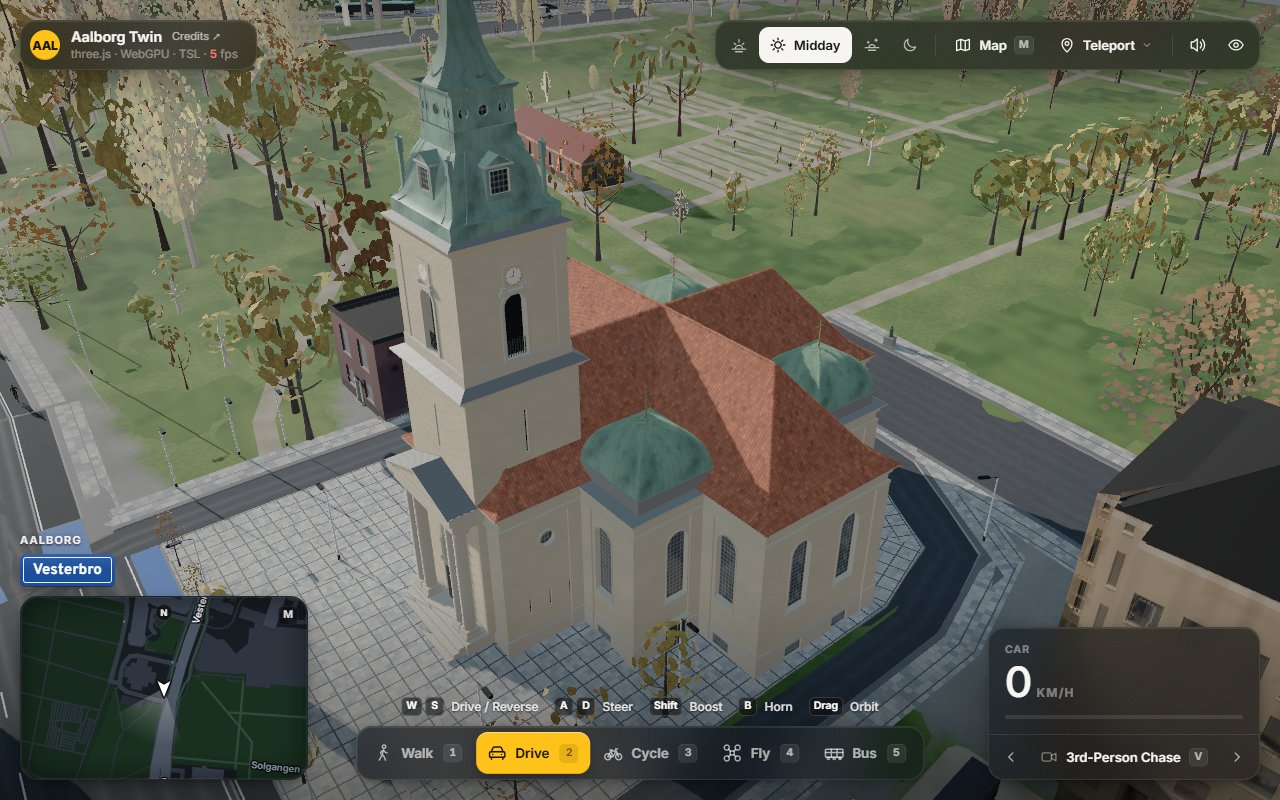
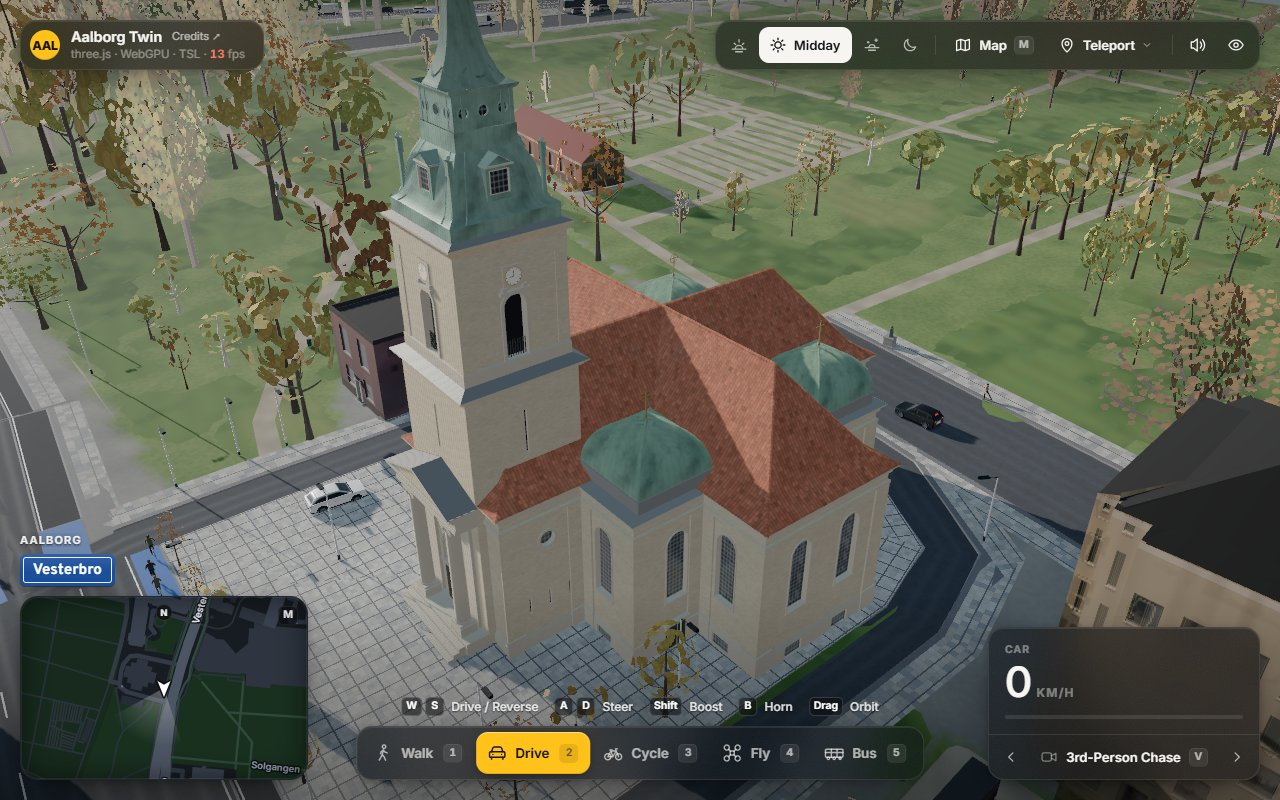
Ansgars Kirke: two Ionic columns at the entrance, brick facade
The entrance has two columns on pedestals, with the capital of sheet 33: a waisted
bolster ending in scrolls, and a pilaster behind each column. The facade texture
is pale yellow brick (mursten) in running bond instead of plain render.

diff --git a/tools/overrides/ansgars_kirke.py b/tools/overrides/ansgars_kirke.py
@@ -64,6 +64,7 @@ PORTICO_U = 20.15
 WIN_W, WIN_SILL, WIN_TOP = 1.75, 4.06, 9.6
 BASE_W = 1.57
 DOME_U, DOME_V, DOME_HALF, DOME_BASE, DOME_TOP = 7.85, 8.0, 2.92, 13.1, 16.4
+COLUMN_U, COLUMNS_V = 19.16, (-2.5, 2.5)  # the entrance's two columns (sheets 33 and 38)
 
 # The outline of the walls, clockwise seen from above, from the north arm's north-west corner.
 WALL_RING = [(-ARM_HALF, NORTH), (ARM_HALF, NORTH), (ARM_HALF, -BAY_V), (BAY_E, -BAY_V), (BAY_E, -ARM_HALF), (EAST, -ARM_HALF), (EAST, ARM_HALF), (BAY_E, ARM_HALF),
@@ -81,7 +82,7 @@ BASEMENT_SOUTH = {10: (2.37, -2.37), 8: (7.72,), 12: (-7.85,), 14: (-13.3,), 7: 
 UP = np.array([0.0, 1.0, 0.0])
 
 # material -> size in metres of one repeat of its texture (None: vertex colours)
-TILE_M = {'tile': (9.6, 9.6), 'wall': (8.0, 8.0), 'stone': (2.0, 2.0), 'copper': (4.0, 4.0), 'dome': (4.0, 4.0), 'glass': (1.74, 1.98), 'painted': None}
+TILE_M = {'tile': (9.6, 9.6), 'wall': (5.28, 5.28), 'stone': (2.0, 2.0), 'copper': (4.0, 4.0), 'dome': (4.0, 4.0), 'glass': (1.74, 1.98), 'painted': None}
 
 
 def rgb(*srgb):
@@ -297,11 +298,13 @@ class Model:
                     nors.append(v / max(np.linalg.norm(v), 1e-9))
                 self.poly(mat, pts, nh + UP * (p[j, 0] - p[j + 1, 0]), uvs=uvs, nors=nors, color=color)
 
-    def cylinder(self, mat, cu, cv, r, h0, h1, n=12, color=None):
+    def cylinder(self, mat, cu, cv, r, h0, h1, n=12, color=None, r1=None):
+        """Upright, round, r at its foot and r1 (default r) at its head."""
+        top = r if r1 is None else r1
         for i in range(n):
             a0, a1 = i / n * 2 * math.pi, (i + 1) / n * 2 * math.pi
             n0, n1 = np.array([math.cos(a0), 0, math.sin(a0)]), np.array([math.cos(a1), 0, math.sin(a1)])
-            q = lambda a, h: (cu + r * math.cos(a), h, cv + r * math.sin(a))
+            q = lambda a, h: (cu + (r if h == h0 else top) * math.cos(a), h, cv + (r if h == h0 else top) * math.sin(a))
             self.poly(mat, [q(a0, h0), q(a1, h0), q(a1, h1), q(a0, h1)], n0 + n1, nors=[n0, n1, n1, n0],
                       uvs=[(a0 * r, h0), (a1 * r, h0), (a1 * r, h1), (a0 * r, h1)], color=color)
 
@@ -644,7 +647,7 @@ def add_domes(m):
 
 
 def add_portico(m, hb):
-    """The entrance front (sheet 38): stairs and landing, two pairs of banded columns, entablature and pediment against the tower."""
+    """The entrance front (sheets 33 and 38): stairs and landing, two Ionic columns on pedestals, entablature and pediment against the tower."""
     hw = TOWER_HALF
     u0, u1 = TOWER_U + TOWER_HALF, PORTICO_U
     m.box('stone', (u0, hb, -hw), (19.85, PLINTH, hw), skip=('b',))  # landing
@@ -652,17 +655,18 @@ def add_portico(m, hb):
         a = 19.85 + k * 0.45
         top = PLINTH - (k + 1) * 0.29
         m.box('stone', (a, hb, -3.75), (a + 0.45, top, 3.75), skip=('b', 'w'))
-    for v in (-3.25, -2.2, 2.2, 3.25):
-        cu = 19.1
-        m.box('stone', (cu - 0.58, PLINTH, v - 0.5), (cu + 0.58, 1.75, v + 0.5))
-        m.box('stone', (cu - 0.5, 1.75, v - 0.47), (cu + 0.5, 2.15, v + 0.47))
-        m.cylinder('stone', cu, v, 0.42, 2.15, 10.05, n=12)
-        for y in np.arange(2.6, 10.0, 0.82):  # the bands of the shaft (sheet 33)
-            m.cylinder('stone', cu, v, 0.45, y, y + 0.1, n=12)
-        m.loft('stone', cu, v, [(0.42, 10.05), (0.47, 10.15), (0.56, 10.5), (0.56, 10.7)], smooth=False)
-    # entablature and cornice around the portico
-    m.box('stone', (u0, 10.7, -hw), (19.88, 11.5, hw), skip=('b',))
-    m.box('stone', (u0, 11.5, -hw - 0.27), (u1, 12.1, hw + 0.27), skip=('w',))
+    for v in COLUMNS_V:
+        cu = COLUMN_U
+        m.box('stone', (cu - 0.62, PLINTH, v - 0.72), (cu + 0.62, 2.15, v + 0.72))  # pedestal
+        m.box('stone', (cu - 0.57, 2.15, v - 0.6), (cu + 0.57, 2.3, v + 0.6))
+        m.cylinder('stone', cu, v, 0.57, 2.3, 2.42, n=20)  # base
+        m.cylinder('stone', cu, v, 0.51, 2.42, 9.93, n=20, r1=0.46)  # shaft, tapering (sheet 33)
+        ionic_capital(m, cu, v)
+    # entablature around the portico: architrave, frieze and cornice (sheet 33)
+    m.box('stone', (u0, 10.56, -hw), (19.73, 10.86, hw))
+    m.box('stone', (u0, 10.86, -hw), (19.65, 11.55, hw))
+    m.box('stone', (u0, 11.55, -hw - 0.1), (19.9, 11.82, hw + 0.1))
+    m.box('stone', (u0, 11.82, -hw - 0.27), (u1, 12.1, hw + 0.27), skip=('w',))
     # pediment with its raking cornices, tile laid over it
     apex = 13.7
     m.poly('wall', [(u1 - 0.1, 12.1, -hw), (u1 - 0.1, 12.1, hw), (u1 - 0.1, apex - 0.1, 0)], (1, 0, 0))
@@ -673,6 +677,9 @@ def add_portico(m, hb):
     # the tower's front behind the columns: main door with its cartouche, the arched window over it (sheet 38)
     w = WallFrame((u0, -hw), (u0, hw))
     c = hw
+    for v in COLUMNS_V:  # the pilaster behind each column, with its half capital
+        m.wbox('stone', w, c + v - 0.6, c + v + 0.6, PLINTH, 10.3, 0.0, 0.22, top=False)
+        m.wbox('stone', w, c + v - 0.72, c + v + 0.72, 10.3, 10.56, 0.0, 0.3)
     o = arch(7.6, 10.2, 1.58, 6)
     for (h0, a0), (h1, a1) in zip(o, o[1:]):
         m.poly('glass', [w.p(c - a0, h0, 0.02), w.p(c + a0, h0, 0.02), w.p(c + a1, h1, 0.02), w.p(c - a1, h1, 0.02)], w.n, uvs=[(-a0, h0), (a0, h0), (a1, h1), (-a1, h1)])
@@ -684,6 +691,40 @@ def add_portico(m, hb):
     for sgn in (-1, 1):
         m.wbox('stone', w, c + sgn * 0.98 - 0.14, c + sgn * 0.98 + 0.14, 4.92, 6.35, 0.0, 0.3)
         m.wbox('stone', w, c + sgn * 0.98 - 0.2, c + sgn * 0.98 + 0.2, 6.35, 6.6, 0.0, 0.34)
+
+
+def ionic_capital(m, cu, cv):
+    """A capital as sheet 33 draws it from the side: a bolster with a waist running front to back, ending in a scroll on the entrance side and behind."""
+    m.cylinder('stone', cu, cv, 0.47, 9.93, 10.12, n=20, r1=0.6)  # echinus
+    m.box('stone', (cu - 0.44, 10.08, cv - 0.5), (cu + 0.44, 10.46, cv + 0.5))  # the band between the scrolls
+    m.box('stone', (cu - 0.6, 10.46, cv - 0.72), (cu + 0.6, 10.56, cv + 0.72))  # abacus
+    groove = rgb(.40, .38, .33)
+    ch, end, half = 10.2, 0.26, 0.5
+    for sgn in (-1, 1):
+        cz = cv + sgn * 0.5
+        radius = lambda t: 0.13 + (end - 0.13) * abs(t) ** 1.6
+        ts = np.linspace(-1, 1, 9)
+        n = 14
+        for t0, t1 in zip(ts, ts[1:]):
+            for i in range(n):
+                a0, a1 = i / n * 2 * math.pi, (i + 1) / n * 2 * math.pi
+                d0, d1 = np.array([0, math.sin(a0), math.cos(a0)]), np.array([0, math.sin(a1), math.cos(a1)])
+                q = lambda t, a: (cu + t * half, ch + radius(t) * math.sin(a), cz + radius(t) * math.cos(a))
+                m.poly('stone', [q(t0, a0), q(t1, a0), q(t1, a1), q(t0, a1)], d0 + d1, nors=[d0, d0, d1, d1],
+                       uvs=[(t0 * half, a0 * end), (t1 * half, a0 * end), (t1 * half, a1 * end), (t0 * half, a1 * end)])
+        for side in (-1, 1):
+            face = cu + side * half
+            normal = (side, 0, 0)
+            disc = [(face, ch + end * math.sin(a), cz + end * math.cos(a)) for a in np.linspace(0, 2 * math.pi, 15)[:-1]]
+            m.poly('stone', disc, normal)
+            # the scroll: a spiral cut in the face, winding in from the rim to the eye
+            turns = np.linspace(0, 3 * 2 * math.pi, 37)
+            rr = end * 0.94 * (1 - turns / turns[-1]) + 0.05
+            for k in range(len(turns) - 1):
+                a, b = turns[k], turns[k + 1]
+                ra, rb = rr[k], rr[k + 1]
+                out = lambda r, q: (face + side * 0.006, ch + r * math.sin(q), cz + sgn * r * math.cos(q))
+                m.poly('painted', [out(ra, a), out(rb, b), out(rb - 0.016, b), out(ra - 0.016, a)], normal, color=groove)
 
 
 def build(hb=-2.0):
@@ -745,15 +786,28 @@ def tile_texture(n=1024, cols=40, rows=32, seed=1):
     return to_image(np.clip(img, 0, 1))
 
 
-def wall_texture(n=1024, size=8.0, seed=3):
-    """The cream render of the photographs (BBR says brick under it): washes and stains running with the height of the wall, a trace of the courses."""
+def wall_texture(n=1024, rows=78, cols=22, seed=3):
+    """Mursten: pale yellow brick in running bond, 24 cm by 6.8 cm to a repeat of 5.28 m. Each brick has its own tone and the bed joints shade most. The courses
+    are laid by hand, each a little off the half-brick, so that from afar the head joints do not line up in stripes."""
     rs = np.random.default_rng(seed)
-    y = np.mgrid[0:n, 0:n][0] + 0.5
-    rows = int(round(size / 0.0775))
-    jit = rs.normal(0, 1, rows)
-    lum = 1 + 0.008 * jit[np.floor(y / n * rows).astype(int)]
-    lum = lum * (1 + 0.075 * periodic_noise(n, 1.7, seed + 1, stretch=(1.0, 0.45), low=1) + 0.02 * periodic_noise(n, 0.8, seed + 2, low=16))
-    img = np.array(albedo(TONES['wall'])) * lum[..., None]
+    y, x = np.mgrid[0:n, 0:n] + 0.5
+    cy = y / n * rows
+    cj = np.floor(cy).astype(int)
+    shift = 0.5 * (np.arange(rows) % 2) + rs.uniform(-0.09, 0.09, rows)
+    cx = x / n * cols + shift[cj]
+    ci = np.floor(cx).astype(int) % cols
+    fy, fx = cy - cj, cx % 1
+    jit = rs.normal(0, 1, (rows, cols))
+    warm = rs.normal(0, 1, (rows, cols))
+    bed = np.minimum(fy, 1 - fy) < 0.085
+    head = np.minimum(fx, 1 - fx) < 0.024
+    lum = 1 + 0.055 * jit[cj, ci]
+    lum = lum * (1 + 0.035 * periodic_noise(n, 0.9, seed + 3, low=30))
+    lum = np.where(bed, 0.86, np.where(head, 0.92, lum))
+    lum = lum * (1 + 0.05 * periodic_noise(n, 1.7, seed + 1, stretch=(1.0, 0.45), low=1))
+    lum = lum / lum.mean()
+    tint = np.where(bed | head, 0.0, 0.018 * warm[cj, ci])
+    img = np.array(albedo(TONES['wall'])) * lum[..., None] * np.stack([1 + tint, np.ones_like(tint), 1 - tint * 1.5], -1)
     return to_image(np.clip(img, 0, 1))
 
 

diff --git a/tools/geodata/tests/test_ansgars_kirke.py b/tools/geodata/tests/test_ansgars_kirke.py
@@ -29,6 +29,26 @@ def test_the_measures_of_the_drawings_hold(parts):
     assert allp[:, 0].max() == pytest.approx(19.85 + 5 * 0.45), "the foot of the stairs"
 
 
+def test_the_entrance_has_two_columns_with_scrolled_capitals(parts):
+    # the shafts' heads are rings of 20 quads: two rings at the height where shaft meets capital, one to each side of the door
+    p = parts["stone"]["p"]
+    heads = p[(np.abs(p[:, 1] - 9.93) < 1e-6) & (p[:, 0] > K.TOWER_U + K.TOWER_HALF + 0.3)]
+    centres = sorted({round(float(np.sign(v)) * 2.5, 1) for v in heads[:, 2]})
+    assert centres == [-2.5, 2.5]
+    assert np.abs(np.abs(heads[:, 2]) - 2.5).max() < 0.65, "nothing else stands at that height"
+    scroll = parts["painted"]["p"]
+    assert ((np.abs(scroll[:, 0] - (K.COLUMN_U + 0.506)) < 1e-6) & (scroll[:, 1] > 9.9) & (scroll[:, 1] < 10.5)).sum() > 0, "the scrolls face the street"
+
+
+def test_the_facade_is_brick():
+    a = np.asarray(K.wall_texture(), float).mean(axis=2)
+    rows = a.mean(axis=1)
+    # the bed joints show as dark lines every course, 78 to a repeat
+    spectrum = np.abs(np.fft.rfft(rows - rows.mean()))
+    assert spectrum.argmax() == 78
+    assert a.std() / a.mean() > 0.025, "bricks and joints, not plain render"
+
+
 def test_every_face_looks_the_way_its_normal_says(parts):
     for name, q in parts.items():
         p = q["p"].reshape(-1, 3, 3)

diff --git a/docs/ansgars-kirke.md b/docs/ansgars-kirke.md
@@ -44,13 +44,15 @@ drawn height of the spire stands.
 - **Domes.** Four pavilion domes on grey attics over the corner bays, with their ridges, standing seams and finials.
 - **Tower.** Shaft, belfry with arches, grilles and clocks, copper hood with corner ribs, dormers and posts, lantern with round windows, spire with its
   garlands, ball, vane and cross.
-- **Entrance.** Stairs, landing, four banded columns, entablature and pediment, door and cartouche.
+- **Entrance.** Stairs, landing, two Ionic columns on pedestals with a pilaster behind each, entablature and pediment, door and cartouche. The capital follows
+  the side view on p. 33: a bolster with a waist, ending in a scroll to the front and back.
 
 The textures are procedural and tile (`tile_texture`, `wall_texture`, `copper_texture`, ...), coloured from the photographs and passed through the twin's albedo
-mapping, so the church is lit like the buildings around it. The roof has red pantiles with a tone per tile and patches of lichen. The hood and spire are pale
+mapping, so the church is lit like the buildings around it. The facade is pale yellow brick (mursten) in running bond; plinth and trim are smoother stone. The
+roof has red pantiles with a tone per tile and patches of lichen. The hood and spire are pale
 verdigris, the domes the same copper in a sager tint.
 
-15,434 triangles, 7 draw calls, a 0.6 MB GLB, 13.7 MB of the 32 MB override texture budget.
+16,152 triangles, 7 draw calls, a 0.7 MB GLB, 13.7 MB of the 32 MB override texture budget.
 
 ## Where it differs from the drawings
 
@@ -58,6 +60,7 @@ verdigris, the domes the same copper in a sager tint.
 | --- | --- | --- |
 | Chimney on the west ridge (p. 33) | Left out | Not visible on the 2021 photographs |
 | Lantern as a stone-like stage | Copper | Copper-clad on the photographs |
+| Horizontal joints drawn on the columns' shafts (p. 33) | Plain shafts | Not visible on the photographs |
 | Cornice tops, attics, portico roof | Grey | Grey on the photographs |
 | Cartouches, door panels, clock frames | Simplified to raised panels and scrolls | Too fine for the twin's scale |
 | Cellar stair wells and railings | Left out | They lie in the ground, and the twin's terrain has no wells |
